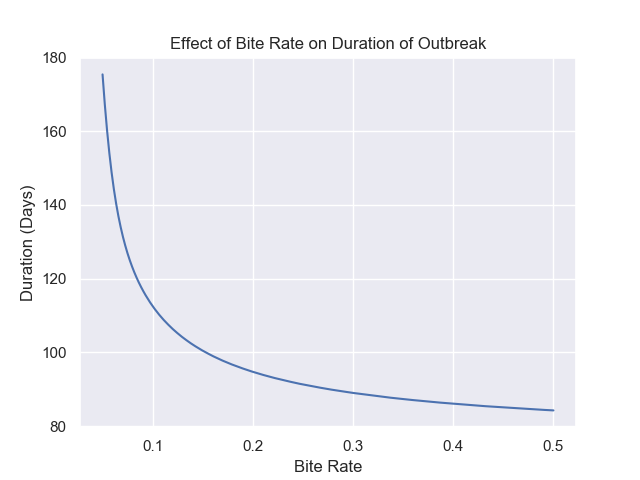
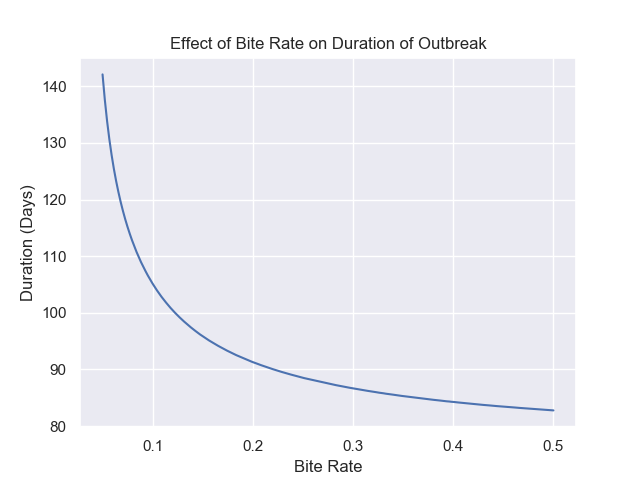
Stuff

diff --git a/Transmission.py b/Transmission.py
@@ -119,6 +119,40 @@ plt.ylabel('Maximum Number of Infected Humans')
 plt.ticklabel_format(style='sci', axis='y', scilimits=(0,0))
 plt.savefig('maxes.png')
 
+maxes1 = []
+x = np.linspace(10000000,250000000,200)
+for i in x:
+    # solve ODE
+    Sv0 = i
+    y0 = [Sh0, Eh0, Ih0, Rh0, Sv0, Ev0, Iv0, exposeh0, exposev0]
+    y = odeint(model, y0, t)
+    maxes1.append(max(y[:, 2]))
+
+plt.figure()
+plt.plot(x,maxes1)
+plt.title('Effect of Bite Rate on Severity of Outbreak')
+plt.xlabel('Bite Rate')
+plt.ylabel('Maximum Number of Infected Humans')
+plt.ticklabel_format(style='sci', axis='y', scilimits=(0,0))
+plt.savefig('maxes1.png')
+
+
+sums = []
+x = np.linspace(0,.5,200)
+for i in x:
+    # solve ODE
+    sigv = i
+    y = odeint(model, y0, t)
+    sums.append(sum(y[:, 2]))
+
+plt.figure()
+plt.plot(x,sums)
+plt.title('Effect of Bite Rate on Severity of Outbreak')
+plt.xlabel('Bite Rate')
+plt.ylabel('Maximum Number of Infected Humans')
+plt.ticklabel_format(style='sci', axis='y', scilimits=(0,0))
+plt.savefig('sums.png')
+
 
 duration = []
 vals = np.linspace(0.05,.5,200)
@@ -147,6 +181,34 @@ plt.ylabel('Duration (Days)')
 plt.xlabel('Bite Rate')
 plt.savefig('durations.png')
 
+duration1 = []
+vals = np.linspace(10000000,250000000,200)
+
+for i in vals:
+    # solve ODE
+    Sv0 = i
+    y0 = [Sh0, Eh0, Ih0, Rh0, Sv0, Ev0, Iv0, exposeh0, exposev0]
+    y = odeint(model, y0, t)
+    foundStart = False
+    start = None
+    end = None
+    for j, value in enumerate(y[:, 2]):
+        if foundStart is False and value >= 1000:
+            start = j
+            foundStart = True
+        elif foundStart is True and value <= 1000:
+            end = j
+            break
+
+    dur = t[end] - t[start]
+    duration1.append(dur)
+
+plt.figure()
+plt.plot(vals,duration1)
+plt.title('Effect of Bite Rate on Duration of Outbreak')
+plt.ylabel('Duration (Days)')
+plt.xlabel('Bite Rate')
+plt.savefig('durations1.png')
 
 # time points
 t = np.linspace(0,100,num=10000)
